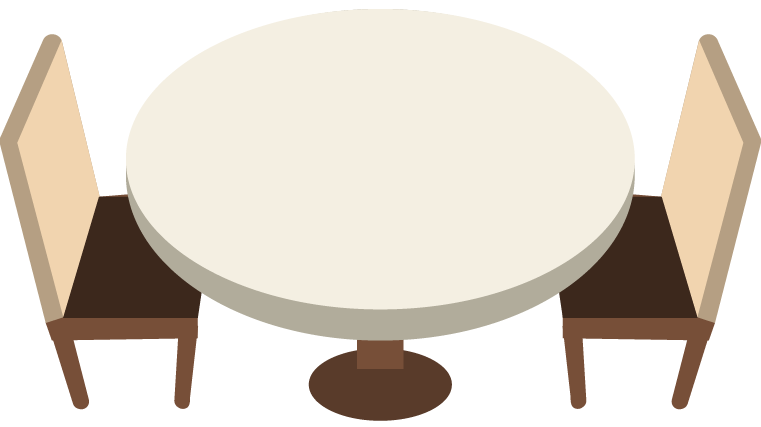
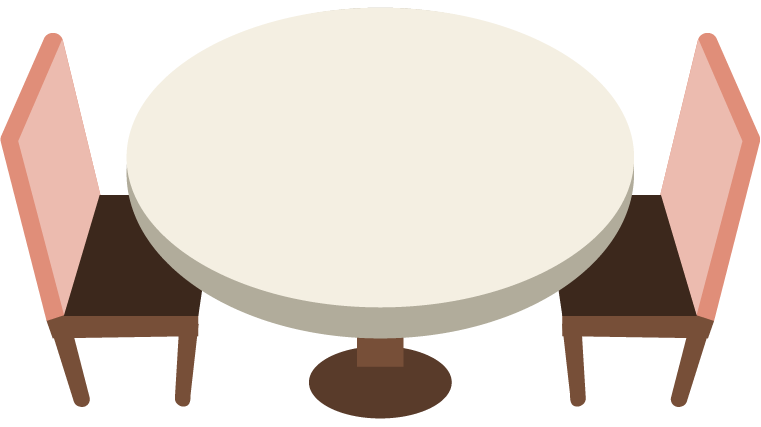
NEW TEXTURES!!

diff --git a/core/src/bobabox/main/Screens/ScrGame.java b/core/src/bobabox/main/Screens/ScrGame.java
@@ -52,9 +52,9 @@ public class ScrGame implements Screen, InputProcessor {
         batch = new SpriteBatch();
 
         txtBg = new Texture("GameBG_img.png");
-        sprServer = new SprServer("Waiter_spr.png",fWX/2+850, fWY/2+175); //850, 175
-        objTable = new ObjTables(nW / 2 + 40, nH / 3, "Table1_obj.png");
-        btnPause = new ObjButton(950, 40, 70, 70, "Pause_btn.png", viewport);
+        sprServer = new SprServer("SERVER1_spr.png",fWX/2+850, fWY/2+175); //850, 175
+        objTable = new ObjTables(nW / 2 + 40, nH / 3, "TABLE1_obj.png");
+        btnPause = new ObjButton(950, 40, 70, 70, "PAUSE1_btn.png", viewport);
 
     }
 
@@ -73,13 +73,13 @@ public class ScrGame implements Screen, InputProcessor {
 
         //Drawing
         batch.draw(txtBg, 0, 0, nW, nH);
+        btnPause.draw(batch);
         sprServer.draw(batch);
         objTable.draw(batch);
-        sprGuest.walkDown();
         sprGuest.draw(batch);
+        sprGuest.walkDown();
         sprGuest.drag();
         sprGuest.heartTracker(batch);
-        btnPause.draw(batch);
         batch.end();
 
         //ObjButton
@@ -105,7 +105,7 @@ public class ScrGame implements Screen, InputProcessor {
 
     }
     public void reset() {
-        sprGuest = new SprGuest("Guest_spr.png", viewport);
+        sprGuest = new SprGuest("GUEST1_spr.png", viewport);
     }
 
     @Override

diff --git a/core/src/bobabox/main/Screens/ScrMenu.java b/core/src/bobabox/main/Screens/ScrMenu.java
@@ -45,9 +45,9 @@ public class ScrMenu implements Screen, InputProcessor {
         batch.setProjectionMatrix(camera.combined);
 
         txtBack = new Texture("Main_bg.png");
-        btnStart = new ObjButton(nW / 2, nH / 3 + 50, 260, 70, "Start_btn.png", viewport);
-        btnTut = new ObjButton(nW / 2, nH / 4 + 10, 260, 70, "Tutorial_btn.png", viewport);
-        btnScratch = new ObjButton(nW / 2, 50, 110, 70, "Scratch_btn.png", viewport);
+        btnStart = new ObjButton(nW / 2, nH / 3 + 50, 260, 70, "START1_btn.png", viewport);
+        btnTut = new ObjButton(nW / 2, nH / 4 + 10, 260, 70, "TUTORIAL1_btn.png", viewport);
+        btnScratch = new ObjButton(nW / 2, 50, 110, 70, "SCRATCH1_btn.png", viewport);
     }
 
     @Override

diff --git a/core/src/bobabox/main/Scratches/SctGuests.java b/core/src/bobabox/main/Scratches/SctGuests.java
@@ -36,8 +36,8 @@ public class SctGuests implements Screen {
         camera.position.set(camera.viewportWidth / 2, camera.viewportHeight / 2, 0); //camera looks at the center of the screen
         batch = new SpriteBatch();
         txtBG = new Texture(Gdx.files.internal("Test_img.jpg"));
-        sprGuest = new SprGuest("Guest_spr.png", viewport);
-        objTable = new ObjTables(200, 100, "Table3_obj.png");
+        sprGuest = new SprGuest("GUEST1_spr.png", viewport);
+        objTable = new ObjTables(200, 100, "TABLE3_obj.png");
     }
 
     @Override

diff --git a/core/src/bobabox/main/Screens/ScrTut.java b/core/src/bobabox/main/Screens/ScrTut.java
@@ -44,8 +44,8 @@ public class ScrTut implements Screen , InputProcessor{
         batch = new SpriteBatch();
 
         txtBg = new Texture("Test_img.jpg");
-        btnStart = new ObjButton(70, 70, 260/2, 70/2, "Start_btn.png", viewport);
-        btnHome = new ObjButton(70, 30, 260/2, 70/2,"Home_btn.png",viewport);
+        btnStart = new ObjButton(70, 70, 260/2, 70/2, "START1_btn.png", viewport);
+        btnHome = new ObjButton(70, 30, 260/2, 70/2,"HOME1_btn.png",viewport);
     }
 
     @Override

diff --git a/core/src/bobabox/main/Scratches/SctWaiter.java b/core/src/bobabox/main/Scratches/SctWaiter.java
@@ -44,9 +44,9 @@ public class SctWaiter implements Screen, InputProcessor {
 
         //sprites
         batch = new SpriteBatch();
-        sprServer = new SprServer("Waiter_spr.png", fWX / 2-200, fWY / 2 + 200); //850, 175
+        sprServer = new SprServer("SERVER1_spr.png", fWX / 2-200, fWY / 2 + 200); //850, 175
 
-        objTable = new ObjTables(fWX / 2 + 100, fWY / 2 - 100, "Table2_obj.png");
+        objTable = new ObjTables(fWX / 2 + 100, fWY / 2 - 100, "TABLE2_obj.png");
 
 
     }

diff --git a/core/src/bobabox/main/Screens/ScrEnd.java b/core/src/bobabox/main/Screens/ScrEnd.java
@@ -43,7 +43,7 @@ public class ScrEnd implements Screen, InputProcessor {
         batch = new SpriteBatch();
 
         txtBg = new Texture("EndBG_img.png");
-        btnHome = new ObjButton(nW / 2, nH/4, 260, 70,"Home_btn.png", viewport);
+        btnHome = new ObjButton(nW / 2, nH/4, 260, 70,"HOME1_btn.png", viewport);
 
     }
 

diff --git a/core/src/bobabox/main/Objects/ObjTables.java b/core/src/bobabox/main/Objects/ObjTables.java
@@ -38,6 +38,7 @@ public class ObjTables extends Sprite {
                     super.setBounds(fX - 10, fY - 10, fW + 20, fH + 20);
                     return true;
                 }
+                
                 return false;
             }
         }
